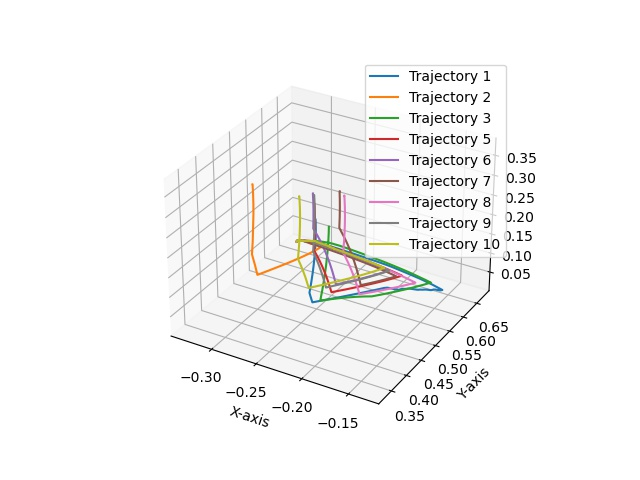
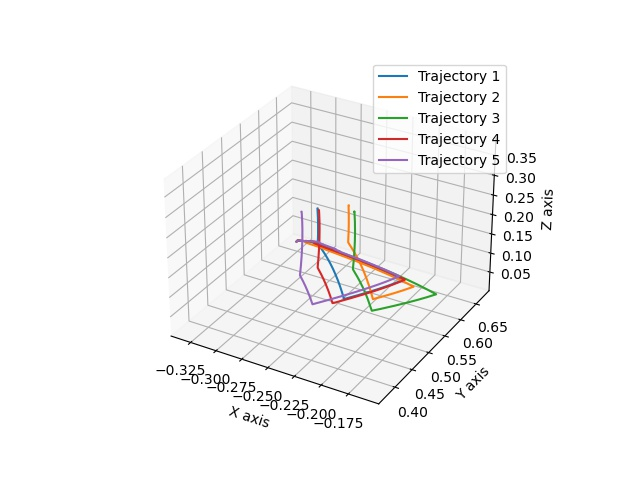
Obtain more 3d plots for paper.

diff --git a/examples/pybullet/gym/pybullet_envs/swe_gym/swe_traj_3d_plot_data.py b/examples/pybullet/gym/pybullet_envs/swe_gym/swe_traj_3d_plot_data.py
@@ -101,13 +101,12 @@ ax.plot3D(x9, y9, z9)
 ax.plot3D(x10, y10, z10)
 
 # naming the x axis
-plt.xlabel('X-axis')
-# naming the y axis
-plt.ylabel('Y-axis')
-# # naming the z axis
-# plt.zlabel('Z-axis')
+ax.set_xlabel('X axis')
+ax.set_ylabel('Y axis')
+ax.set_zlabel('Z axis')
 
 plt.legend(["Trajectory 1", "Trajectory 2", "Trajectory 3", "Trajectory 5", "Trajectory 6", "Trajectory 7", "Trajectory 8", "Trajectory 9", "Trajectory 10"])
+# plt.legend(["Trajectory 1", "Trajectory 2", "Trajectory 3", "Trajectory 4", "Trajectory 5"])
 
 # Saving the figure.
 plt.savefig("data/joint_plot/traj_3d_plot_{}.jpg".format(exp_run))
